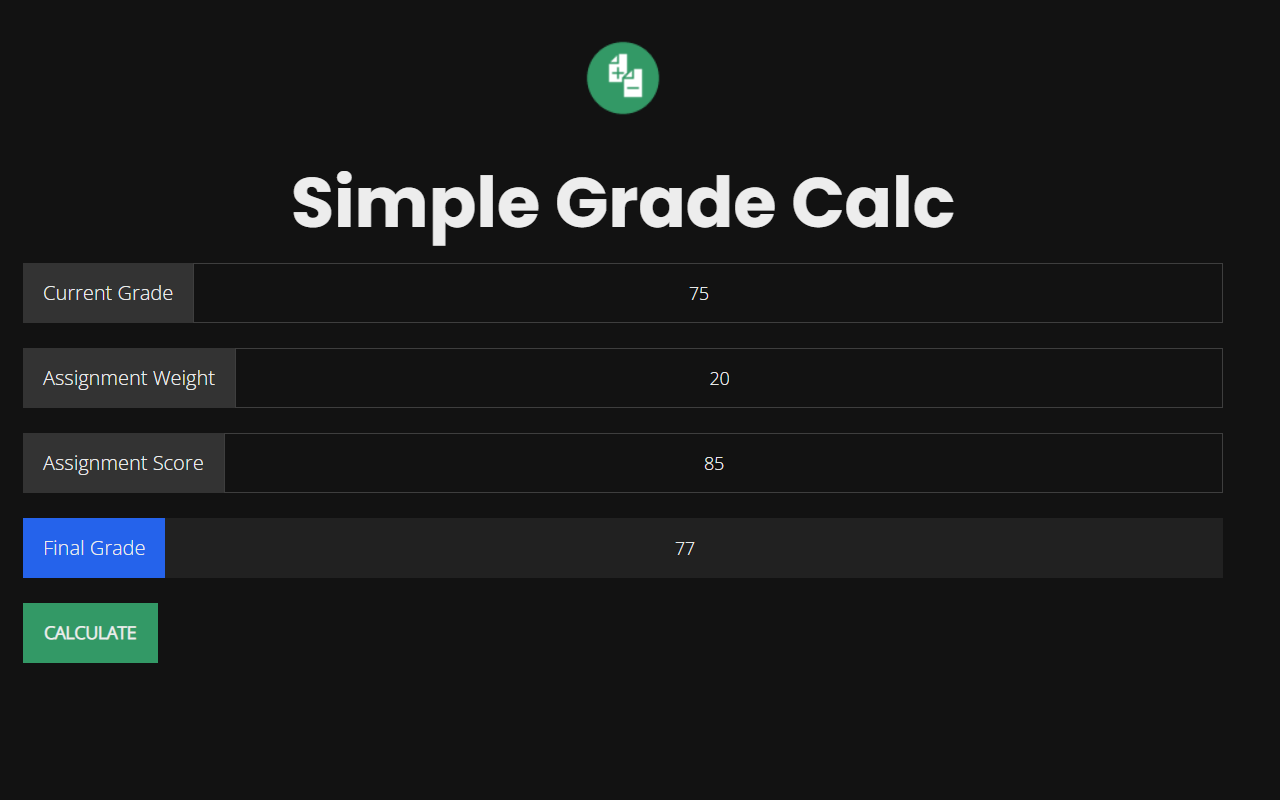
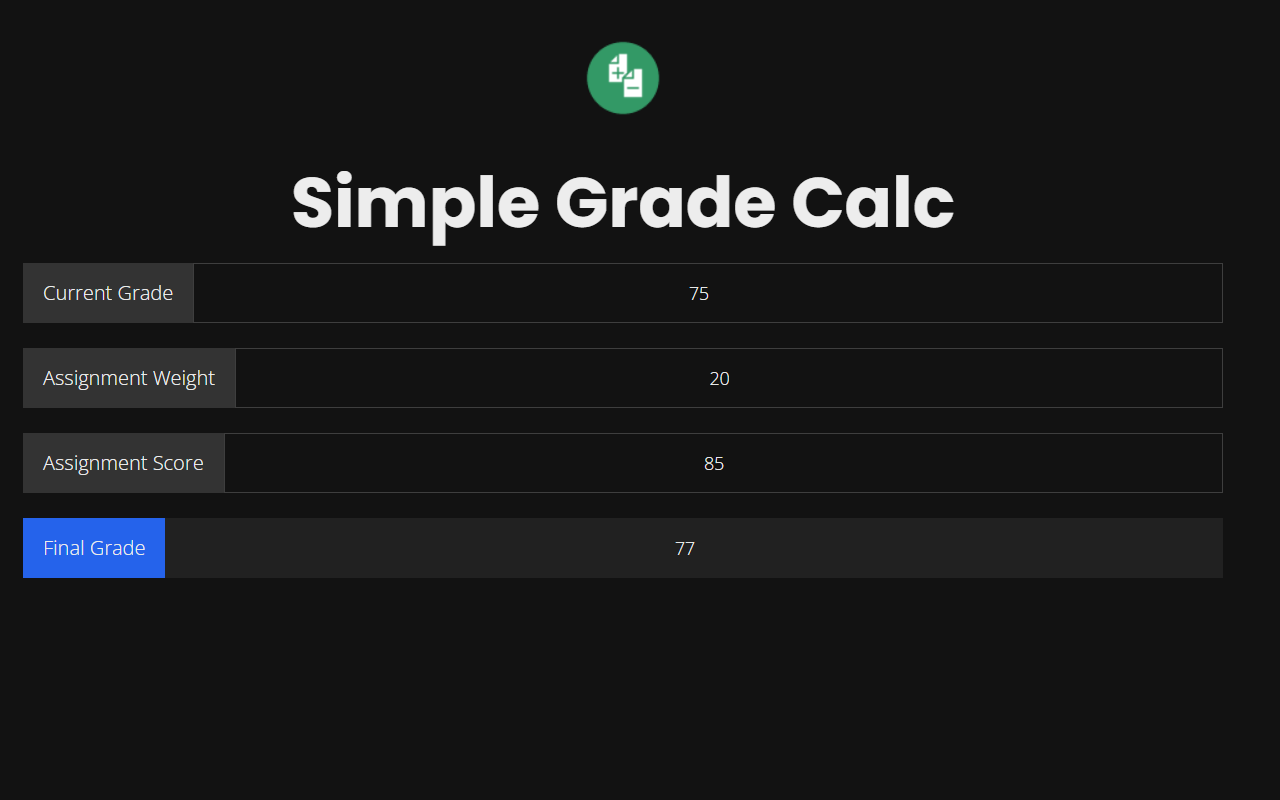
Show error message if missing inputs, remove noop btn
Updated screenshot accordingly as well (for missing btn)

Changed region(s): [[0.0, 0.75, 0.125, 0.8438]]

diff --git a/src/routes/projects/simple-grade-calc.svelte b/src/routes/projects/simple-grade-calc.svelte
@@ -5,9 +5,12 @@
 	let assignmentWeight = 20;
 	let assignmentScore = 85;
 
-	$: finalGrade = Math.round(
-		currentGrade * (1 - assignmentWeight / 100) + (assignmentWeight / 100) * assignmentScore
-	);
+	$: finalGrade =
+		currentGrade !== null && assignmentWeight !== null && assignmentScore !== null
+			? Math.round(
+					currentGrade * (1 - assignmentWeight / 100) + (assignmentWeight / 100) * assignmentScore
+			  )
+			: 'Please enter all inputs';
 </script>
 
 <ProjectHeader
@@ -55,16 +58,13 @@
 	<label class="input-group">
 		<span class="bg-blue-600">Final Grade</span>
 		<input
-			type="number"
+			type="text"
 			disabled
 			placeholder="Final Grade"
 			value={finalGrade}
 			class="input input-bordered grow text-center"
 		/>
 	</label>
-	<span>
-		<button class="btn btn-primary" type="submit">Calculate</button>
-	</span>
 </form>
 
 <style>
